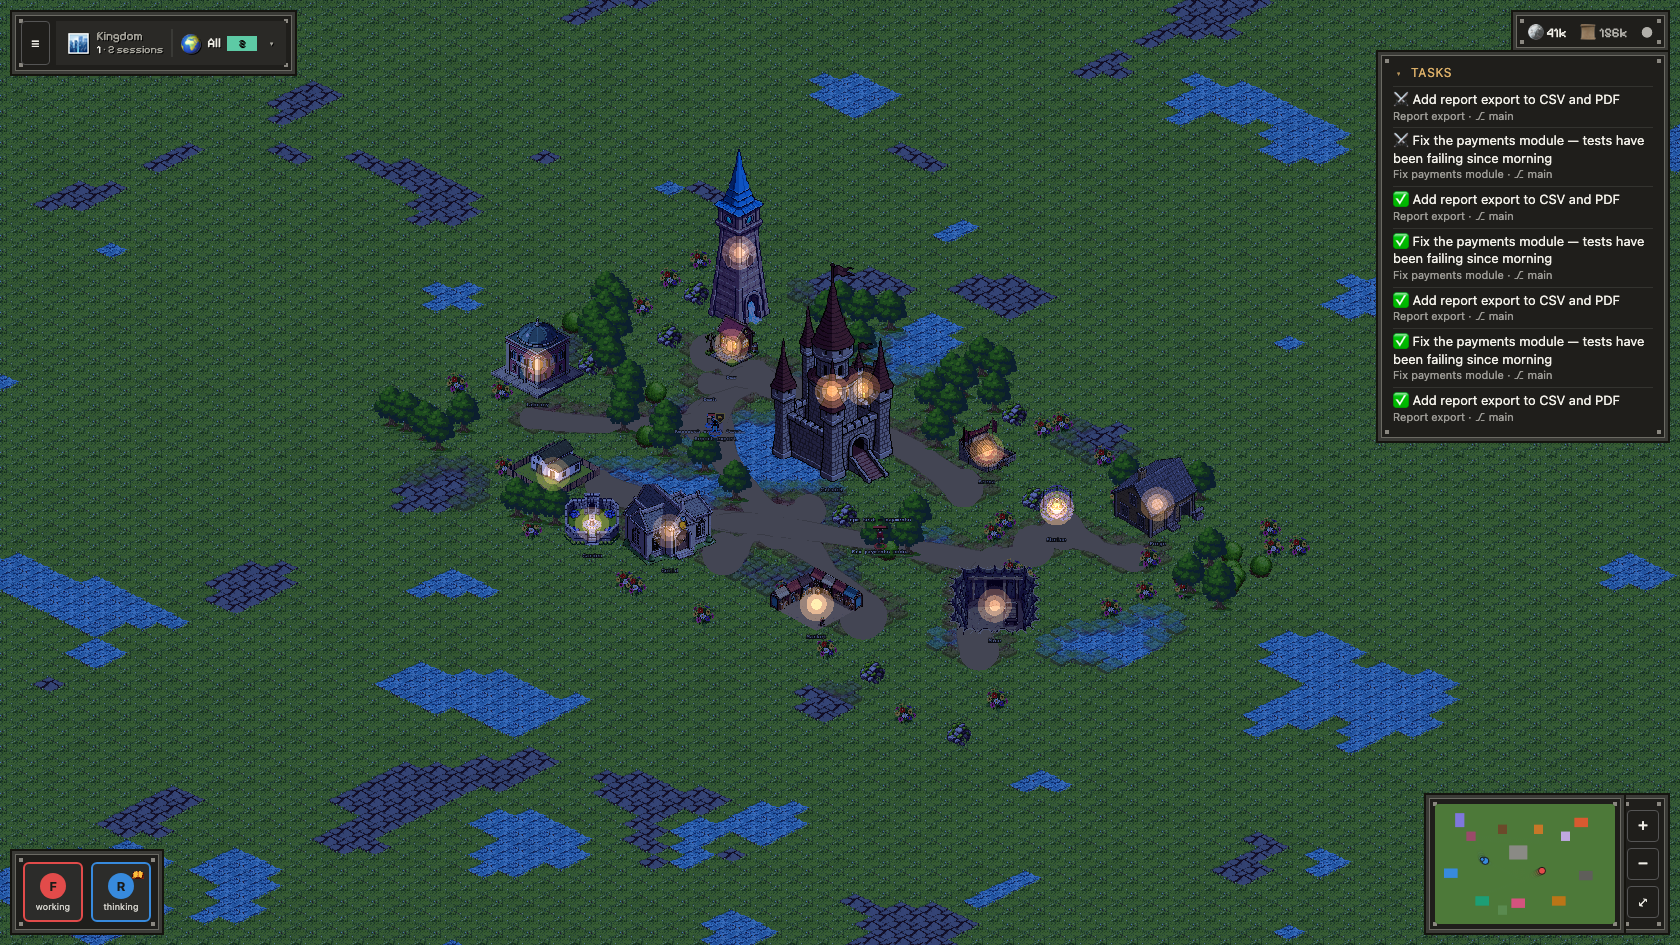
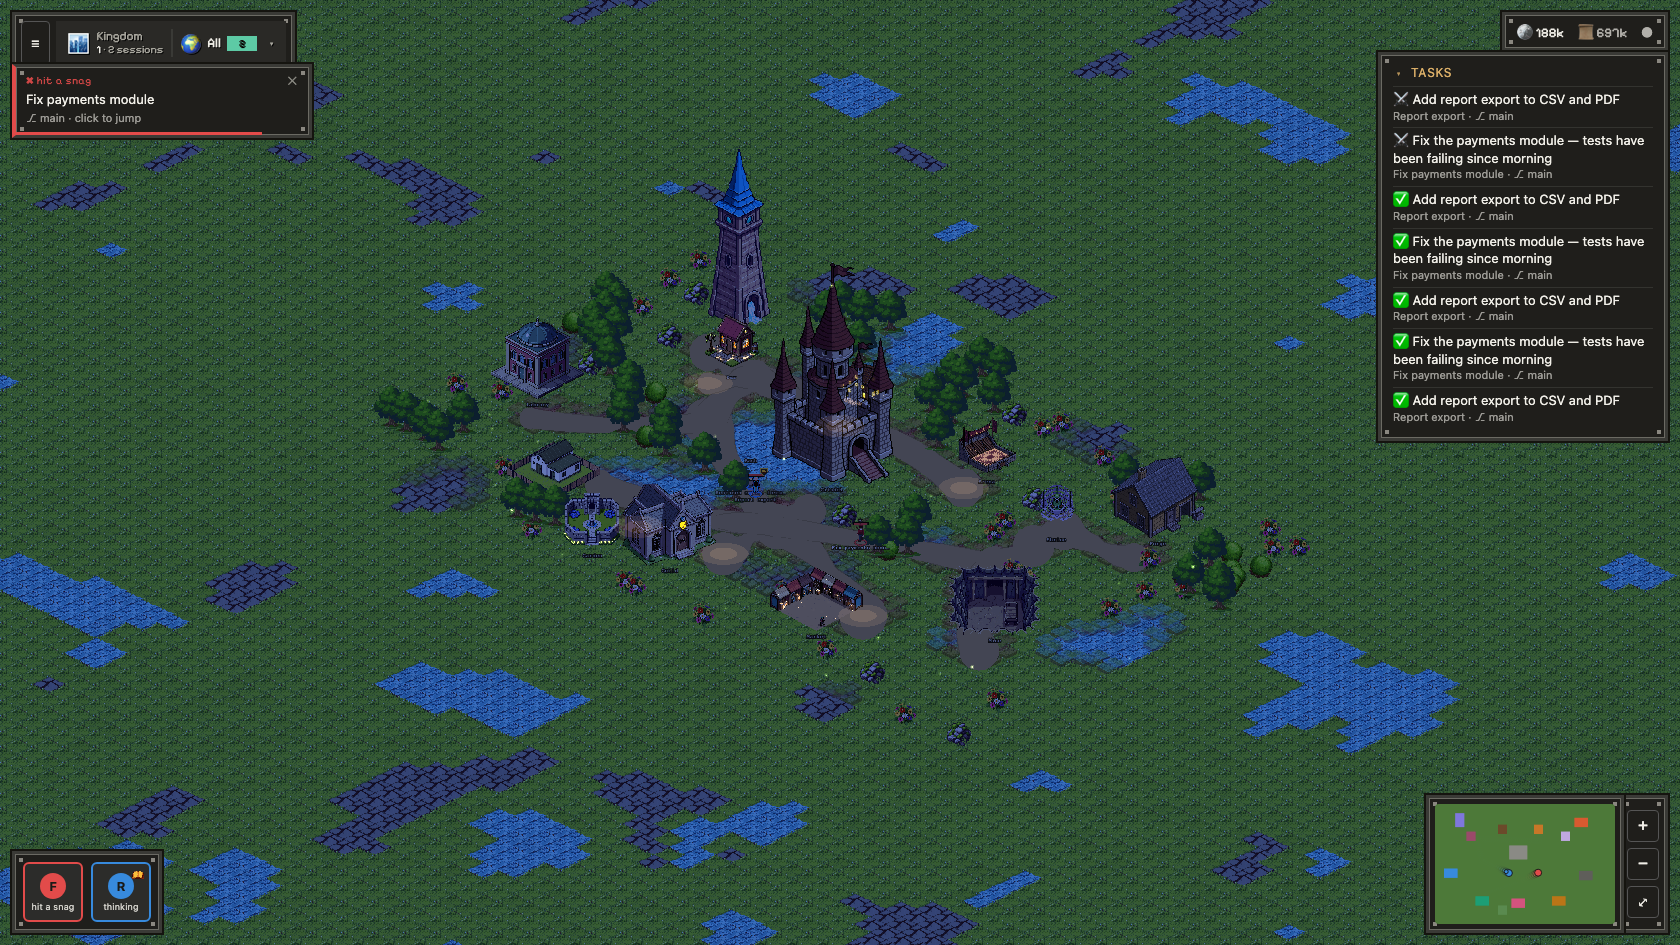
feat(night): fireflies and shooting stars after dusk
Night ambience above the dusk overlay: fireflies drift and blink across
the realm (warm ember motes on the sci-fi colony), scattered outside
building footprints via a seeded LCG; every 16-42 s a shooting star
streaks across the visible world. Pure drift/blink/scheduling math in
night-ambience.ts with tests; ambience nodes live in a dedicated layer
above the night overlay so they are not dimmed by it.

Retake the night hero screenshot (old one still showed the glow blobs)
and mention the ambience in the README.

Claude-Session: https://claude.ai/code/session_018WfWNWMy62s84HmVN7jcMy

diff --git a/packages/client/src/game/night-ambience.ts b/packages/client/src/game/night-ambience.ts
@@ -1,0 +1,89 @@
+/**
+ * Night ambience: fireflies drifting through the realm after dusk (warm
+ * ember motes on the sci-fi colony) and the occasional shooting star.
+ * Pure math lives here — GameView owns the Pixi nodes and the ticker.
+ */
+
+export interface FireflyNest {
+  gx: number;
+  gy: number;
+  /** Desynchronizes drift + blink between fireflies. */
+  phase: number;
+  /** Drift radius in tiles. */
+  radius: number;
+  /** Drift speed multiplier. */
+  speed: number;
+}
+
+interface BuildingRect {
+  gx: number;
+  gy: number;
+  w: number;
+  h: number;
+}
+
+/** Deterministic LCG so the same seed always grows the same swarm. */
+function lcg(seed: number): () => number {
+  let s = seed >>> 0 || 1;
+  return () => {
+    s = (s * 1664525 + 1013904223) >>> 0;
+    return s / 0xffffffff;
+  };
+}
+
+/**
+ * Scatter firefly nests across the gameplay grid, keeping out of building
+ * footprints (padded by one tile) so fireflies wander gardens, ponds and
+ * paths rather than clipping through walls.
+ */
+export function fireflyNests(
+  grid: { w: number; h: number },
+  buildings: BuildingRect[],
+  count: number,
+  seed = 7,
+): FireflyNest[] {
+  const rand = lcg(seed);
+  const nests: FireflyNest[] = [];
+  let guard = count * 30;
+  while (nests.length < count && guard-- > 0) {
+    const gx = rand() * grid.w;
+    const gy = rand() * grid.h;
+    const blocked = buildings.some(
+      (b) => gx >= b.gx - 1 && gx <= b.gx + b.w + 1 && gy >= b.gy - 1 && gy <= b.gy + b.h + 1,
+    );
+    if (blocked) continue;
+    nests.push({
+      gx,
+      gy,
+      phase: rand() * Math.PI * 2,
+      radius: 0.5 + rand() * 0.9,
+      speed: 0.5 + rand() * 0.7,
+    });
+  }
+  return nests;
+}
+
+/** Firefly state at time t: gentle Lissajous drift around the nest and a
+ *  slow blink. dx/dy are in tiles; glow is 0..1. */
+export function fireflyAt(t: number, f: FireflyNest): { dx: number; dy: number; glow: number } {
+  const dx = Math.sin(t * f.speed + f.phase) * f.radius + Math.sin(t * f.speed * 0.37 + f.phase * 2) * f.radius * 0.4;
+  const dy = Math.cos(t * f.speed * 0.73 + f.phase) * f.radius * 0.5;
+  // Blink: mostly dim with soft bright pulses.
+  const s = Math.sin(t * f.speed * 1.9 + f.phase * 3);
+  const glow = Math.max(0, s) ** 2 * 0.85 + 0.15;
+  return { dx, dy, glow };
+}
+
+/** Seconds until the next shooting star: rare enough to stay special. */
+export function nextShootingStarDelay(rand: () => number = Math.random): number {
+  return 16 + rand() * 26; // 16–42 s
+}
+
+/** Velocity + lifetime for a shooting star streak (px/s in world space).
+ *  Always downward-diagonal; direction picked by the caller's rand. */
+export function shootingStarMotion(rand: () => number = Math.random): { vx: number; vy: number; life: number } {
+  const dir = rand() < 0.5 ? -1 : 1;
+  const speed = 520 + rand() * 260;
+  const angle = (28 + rand() * 14) * (Math.PI / 180); // shallow descent
+  return { vx: Math.cos(angle) * speed * dir, vy: Math.sin(angle) * speed, life: 1.0 + rand() * 0.5 };
+}

diff --git a/packages/client/src/game/view.ts b/packages/client/src/game/view.ts
@@ -26,6 +26,7 @@ import { useSettings, type Lang } from '../settings';
 import { contextPct } from '../context-progress';
 import { daylightAt, localHour, parseHourOverride, DAY_TINT } from './daylight';
 import { getWindowLightTexture } from './building-lights';
+import { fireflyNests, fireflyAt, nextShootingStarDelay, shootingStarMotion, type FireflyNest } from './night-ambience';
 
 /** Target decoration width in tiles (for sprite scaling). */
 const DECO_W: Record<DecoKind, number> = { tree: 1.1, rock: 0.8, bush: 0.75, flower: 0.7 };
@@ -109,6 +110,12 @@ export class GameView {
   private duskOverlay?: Graphics;
   private buildingLights: { node: Sprite | Graphics; phase: number; base: number }[] = [];
   private hourOverride?: number; // ?hour= URL param (testing/screenshots)
+  private fireflies: { g: Graphics; nest: FireflyNest }[] = [];
+  /** Night FX above the dusk overlay — fireflies/stars must not be dimmed by it. */
+  private ambienceLayer = new Container();
+  private nightLevel = 0; // last daylight lights value (drives ambience)
+  private starAt = Infinity; // elapsed time of the next shooting star
+  private skyRect?: { minX: number; minY: number; maxX: number; maxY: number };
   private missionStatus = new Map<string, string>();
   private graph: WaypointGraph;
   private unsubscribe?: () => void;
@@ -289,6 +296,7 @@ export class GameView {
       this.updateBuildingFx(dt);
       this.updateParticles(dt);
       this.updateDaylight();
+      this.updateNightAmbience();
     });
 
     this.unsubscribe = useWorld.subscribe((state) =>
@@ -751,6 +759,80 @@ export class GameView {
       this.worldLayer.addChild(spill);
       this.buildingLights.push({ node: spill, phase, base: 0.22 });
     }
+
+    this.buildNightAmbience(rect);
+  }
+
+  /** Fireflies over the realm (warm embers on the sci-fi colony) + the
+   *  shooting-star timer. Nodes live above the night overlay so they shine. */
+  private buildNightAmbience(rect: { minX: number; minY: number; maxX: number; maxY: number }): void {
+    this.skyRect = rect;
+    this.worldLayer.addChild(this.ambienceLayer); // above the overlay + building lights
+    const color = this.theme.id === 'scifi' ? 0xffb066 : 0xcaff6e;
+    const rects = this.theme.buildings.map((b) => ({ gx: b.gx, gy: b.gy, w: b.w, h: b.h }));
+    for (const nest of fireflyNests(this.theme.grid, rects, 26)) {
+      const g = new Graphics();
+      g.circle(0, 0, 4.4).fill({ color, alpha: 0.3 }); // soft halo
+      g.circle(0, 0, 2.2).fill({ color, alpha: 0.5 });
+      g.rect(-1.2, -1.2, 2.4, 2.4).fill(color);
+      g.blendMode = 'add';
+      g.eventMode = 'none';
+      g.alpha = 0;
+      this.ambienceLayer.addChild(g);
+      this.fireflies.push({ g, nest });
+    }
+  }
+
+  /** Drift + blink the fireflies; launch a shooting star now and then. */
+  private updateNightAmbience(): void {
+    const night = Math.max(0, (this.nightLevel - 0.35) / 0.65); // ambience only after dusk settles
+    for (const { g, nest } of this.fireflies) {
+      if (night <= 0) {
+        g.visible = false;
+        continue;
+      }
+      g.visible = true;
+      const { dx, dy, glow } = fireflyAt(this.elapsed, nest);
+      const s = this.theme.projection.toScreen(nest.gx + dx, nest.gy + dy);
+      g.position.set(s.x, s.y - 10); // hovering just above the ground
+      g.alpha = glow * night;
+    }
+
+    if (night <= 0) {
+      this.starAt = Infinity; // reschedule at next dusk
+      return;
+    }
+    if (this.starAt === Infinity) this.starAt = this.elapsed + nextShootingStarDelay();
+    if (this.elapsed >= this.starAt) {
+      this.starAt = this.elapsed + nextShootingStarDelay();
+      this.spawnShootingStar();
+    }
+  }
+
+  /** A brief streak of light across the night realm. Spawned well inside the
+   *  world rect — the outer margin is cropped away at "cover" zoom, so a
+   *  star hugging the world's top edge would never be seen. */
+  private spawnShootingStar(): void {
+    if (!this.skyRect) return;
+    const { minX, minY, maxX, maxY } = this.skyRect;
+    const { vx, vy, life } = shootingStarMotion();
+    const x = minX + (0.2 + Math.random() * 0.6) * (maxX - minX);
+    const y = minY + (0.12 + Math.random() * 0.45) * (maxY - minY);
+    const len = 75 + Math.random() * 40;
+    const streak = new Graphics();
+    const speed = Math.hypot(vx, vy);
+    const tail = { x: (-vx / speed) * len, y: (-vy / speed) * len };
+    streak.poly([0, 0, tail.x, tail.y], false).stroke({ color: 0xbfe3ff, width: 5, alpha: 0.3 });
+    streak.poly([0, 0, tail.x * 0.6, tail.y * 0.6], false).stroke({ color: 0xffffff, width: 2.2, alpha: 0.95 });
+    streak.circle(0, 0, 3.2).fill({ color: 0xffffff, alpha: 0.95 });
+    streak.circle(0, 0, 6).fill({ color: 0xbfe3ff, alpha: 0.3 });
+    streak.blendMode = 'add';
+    streak.eventMode = 'none';
+    streak.position.set(x, y);
+    // ambienceLayer, not fxLayer: the star must shine above the night overlay.
+    // updateParticles' fxLayer.removeChild is a no-op here; destroy() detaches.
+    this.ambienceLayer.addChild(streak);
+    this.particles.push({ g: streak, vx, vy, life, maxLife: life, gravity: 0 });
   }
 
   /** Apply the current clock (or ?hour= override) to overlay tint and window lights. */
@@ -758,6 +840,7 @@ export class GameView {
     if (!this.duskOverlay) return;
     const enabled = useSettings.getState().dayNight;
     const d = enabled ? daylightAt(this.hourOverride ?? localHour()) : { tint: DAY_TINT, lights: 0 };
+    this.nightLevel = d.lights;
     this.duskOverlay.tint = d.tint;
     this.duskOverlay.visible = d.tint !== DAY_TINT;
     const lit = d.lights > 0.01;

diff --git a/packages/client/tests/night-ambience.test.ts b/packages/client/tests/night-ambience.test.ts
@@ -1,0 +1,65 @@
+import { describe, expect, it } from 'vitest';
+import { fireflyNests, fireflyAt, nextShootingStarDelay, shootingStarMotion } from '../src/game/night-ambience';
+
+describe('fireflyNests', () => {
+  const grid = { w: 30, h: 20 };
+  const buildings = [
+    { gx: 5, gy: 5, w: 4, h: 3 },
+    { gx: 20, gy: 10, w: 6, h: 4 },
+  ];
+
+  it('scatters the requested number of nests inside the grid', () => {
+    const nests = fireflyNests(grid, buildings, 26);
+    expect(nests).toHaveLength(26);
+    for (const n of nests) {
+      expect(n.gx).toBeGreaterThanOrEqual(0);
+      expect(n.gx).toBeLessThanOrEqual(grid.w);
+      expect(n.gy).toBeGreaterThanOrEqual(0);
+      expect(n.gy).toBeLessThanOrEqual(grid.h);
+    }
+  });
+
+  it('keeps nests out of building footprints (padded by one tile)', () => {
+    for (const n of fireflyNests(grid, buildings, 26)) {
+      for (const b of buildings) {
+        const inside = n.gx >= b.gx - 1 && n.gx <= b.gx + b.w + 1 && n.gy >= b.gy - 1 && n.gy <= b.gy + b.h + 1;
+        expect(inside).toBe(false);
+      }
+    }
+  });
+
+  it('is deterministic per seed', () => {
+    expect(fireflyNests(grid, buildings, 10, 42)).toEqual(fireflyNests(grid, buildings, 10, 42));
+    expect(fireflyNests(grid, buildings, 10, 1)).not.toEqual(fireflyNests(grid, buildings, 10, 2));
+  });
+});
+
+describe('fireflyAt', () => {
+  it('drifts within ~1.5x the nest radius and keeps glow in [0, 1]', () => {
+    const nest = { gx: 0, gy: 0, phase: 1.3, radius: 0.8, speed: 0.9 };
+    for (let t = 0; t < 60; t += 0.37) {
+      const { dx, dy, glow } = fireflyAt(t, nest);
+      expect(Math.abs(dx)).toBeLessThanOrEqual(nest.radius * 1.5);
+      expect(Math.abs(dy)).toBeLessThanOrEqual(nest.radius * 1.5);
+      expect(glow).toBeGreaterThanOrEqual(0);
+      expect(glow).toBeLessThanOrEqual(1);
+    }
+  });
+});
+
+describe('shooting stars', () => {
+  it('spaces stars 16-42 s apart', () => {
+    expect(nextShootingStarDelay(() => 0)).toBe(16);
+    expect(nextShootingStarDelay(() => 1)).toBe(42);
+  });
+
+  it('always descends at a shallow diagonal', () => {
+    for (const r of [0, 0.25, 0.5, 0.75, 0.999]) {
+      const { vx, vy, life } = shootingStarMotion(() => r);
+      expect(vy).toBeGreaterThan(0); // downward
+      expect(Math.abs(vx)).toBeGreaterThan(vy * 0.8); // shallow, not a plummet
+      expect(life).toBeGreaterThanOrEqual(1.0);
+      expect(life).toBeLessThanOrEqual(1.5);
+    }
+  });
+});

diff --git a/README.md b/README.md
@@ -35,7 +35,7 @@ renders them as a calm, real-time strategy realm:
 - **Subagents → workers.** When a session spawns subagents (e.g. the Task tool), they appear as little workers around their settler.
 - **Tokens → harvest.** Tokens read and produced fill the storehouse. Settlers ponder while thinking, rest when waiting, and stroll home when the day's work is done.
 - **Two worlds.** Switch between a **fantasy** (top-down) and a **sci-fi** (isometric) realm on the fly.
-- **Day & night.** The realm follows your local clock — dawn glow, amber dusk, moonlit nights with warm lit windows on every building. Toggle it with the 🌗 button; preview any time of day with `?hour=22` in the URL.
+- **Day & night.** The realm follows your local clock — dawn glow, amber dusk, and moonlit nights where every building's windows light up from the inside, fireflies drift through the gardens, and the occasional shooting star crosses the sky. Toggle it with the 🌗 button; preview any time of day with `?hour=22` in the URL.
 - **Many projects → cities.** Each project becomes a city you can switch between; open one for an optional peek at [Beads](https://github.com/steveyegge/beads) tasks and a [Graphify](https://github.com/safishamsi/graphify) code map (see [Project intel](#-project-intel-optional)).
 
 A glanceable, second-monitor view of what your agents are quietly up to.